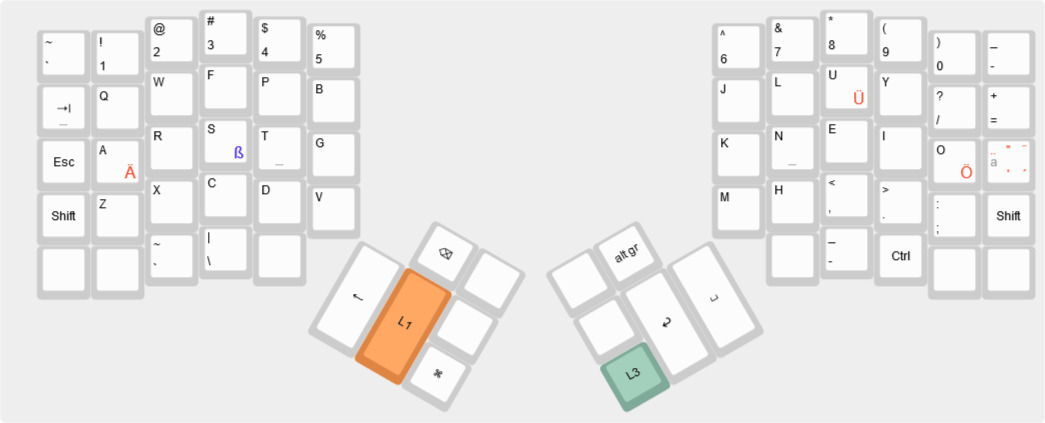
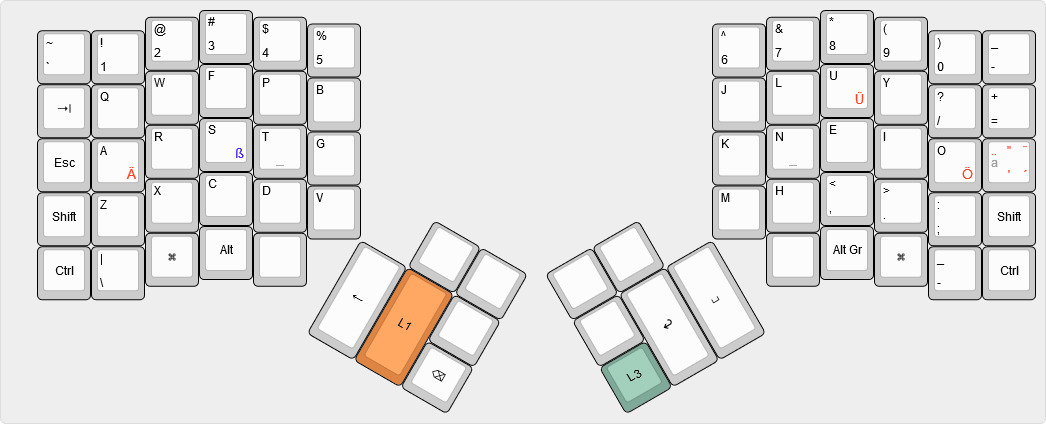
latest updates aimed at updating to manuform.

Changed region(s): [[0.0306, 0.0307, 1.0, 0.9835], [0.6737, 0.6761, 0.7349, 0.8605], [0.2756, 0.7683, 0.3062, 0.7991]]

diff --git a/src/keyboard/dactyl/layout/qwerty-kinesis-mod.c b/src/keyboard/dactyl/layout/qwerty-kinesis-mod.c
@@ -29,19 +29,19 @@ const uint8_t PROGMEM _kb_layout[KB_LAYERS][KB_ROWS][KB_COLUMNS] = {
       _tab,         _Q,        _W,          _F,           _P,    _B,
       _esc,         _A,        _R,          _S,           _T,    _G,
    _shiftL,         _Z,        _X,          _C,           _D,    _V,
-    _ctrlL,         _2,    _grave,  _backslash,   _backslash,
+    _ctrlL, _backslash,     _guiL,       _altL,   _backslash,
                                                         _del,  _del,
                                                               _guiL,
-                                                   _bs,   1,  _guiL,
+                                                    _bs,   1,  _del,
 // right hand
            _6,      _7,      _8,      _9,         _0,     _dash,
            _J,      _L,      _U,      _Y,     _slash,    _equal,
            _K,      _N,      _E,      _I,         _O,    _quote,
            _M,      _H,  _comma, _period, _semicolon,   _shiftR,
-               _arrowL,   _dash,  _ctrlR,    _arrowR,    _ctrlR,
+               _arrowL,   _altR,   _guiR,      _dash,    _ctrlR,
 KEY_Cancel,  3,
 _altR,
-_altR, _enter,  _space ),
+3, _enter,  _space ),
 
 
 	KB_MATRIX_LAYER(  // layout: layer 1: function and symbol keys
@@ -60,7 +60,7 @@ _altR, _enter,  _space ),
             _F6,       _F7,        _F8,       _F9,         _F10,        0,
              _3, _bracketL,  _bracketR,        _8,            0,        0,
              _6,        _9,         _0,        _4,           _1,        0,
-             _7, _bracketL,  _bracketR,         0,            0,        0,
+             _7, _bracketL,  _bracketR,    _grave,            0,        0,
               0,         0,          0,         0,            0,
   0,  0,
   0,
@@ -176,7 +176,7 @@ NULL,
  kprrel, kprrel,  kprrel,  kprrel, kprrel, kprrel,
  kprrel, kprrel,  kprrel,  kprrel, kprrel, kprrel,
  s2kcap, kprrel,  kprrel,  kprrel, kprrel, kprrel,
- kprrel, sshprre, kprrel,  kprrel, kprrel,
+ kprrel, kprrel,  kprrel,  kprrel, kprrel,
                                                  kprrel, kprrel,
                                                          kprrel,
                                          kprrel, lpush1, kprrel,
@@ -188,7 +188,7 @@ NULL,
                          kprrel, kprrel, kprrel, kprrel, kprrel,
  kprrel, slpunum,
  kprrel,
- kprrel, kprrel, kprrel ),
+ slpunum, kprrel, kprrel ),
 
 
 	KB_MATRIX_LAYER(  // press: layer 1: function and symbol keys
@@ -207,7 +207,7 @@ NULL,
                  kprrel,  kprrel,  kprrel,  kprrel,  kprrel,  kprrel,
                 sshprre, sshprre, sshprre, sshprre,  ktrans,  ktrans,
                 sshprre, sshprre, sshprre, sshprre, sshprre,  ktrans,
-                sshprre,  kprrel,  kprrel,  ktrans,  ktrans,  ktrans,
+                sshprre,  kprrel,  kprrel,  kprrel,  ktrans,  ktrans,
                           ktrans,  ktrans,  ktrans,  ktrans,  ktrans,
  ktrans, ktrans,
  ktrans,
@@ -274,7 +274,7 @@ NULL,
  kprrel, kprrel,  kprrel,  kprrel, kprrel, kprrel,
  kprrel, kprrel,  kprrel,  kprrel, kprrel, kprrel,
  s2kcap, kprrel,  kprrel,  kprrel, kprrel, kprrel,
- kprrel, sshprre, sshprre, kprrel, kprrel,
+ kprrel, kprrel, sshprre,  kprrel, kprrel,
                                                  kprrel, kprrel,
                                                          kprrel,
                                          kprrel, lpop1,  kprrel,
@@ -286,7 +286,7 @@ NULL,
                         kprrel, kprrel, kprrel, kprrel, kprrel,
  kprrel, slponum,
  kprrel,
- kprrel, kprrel, kprrel ),
+ slponum, kprrel, kprrel ),
 
 
 	KB_MATRIX_LAYER(  // release: layer 1: function and symbol keys
@@ -305,7 +305,7 @@ NULL,
                 kprrel, kprrel,  kprrel,  kprrel,  kprrel,  kprrel,
                sshprre, sshprre, sshprre, sshprre, kprrel,  kprrel,
                sshprre, sshprre, sshprre, sshprre, sshprre, kprrel,
-               sshprre, kprrel,  kprrel,  ktrans,  ktrans,  kprrel,
+               sshprre, kprrel,  kprrel,  kprrel,  ktrans,  kprrel,
                         ktrans,  ktrans,  ktrans,  ktrans,  ktrans,
  ktrans, ktrans,
  ktrans,
